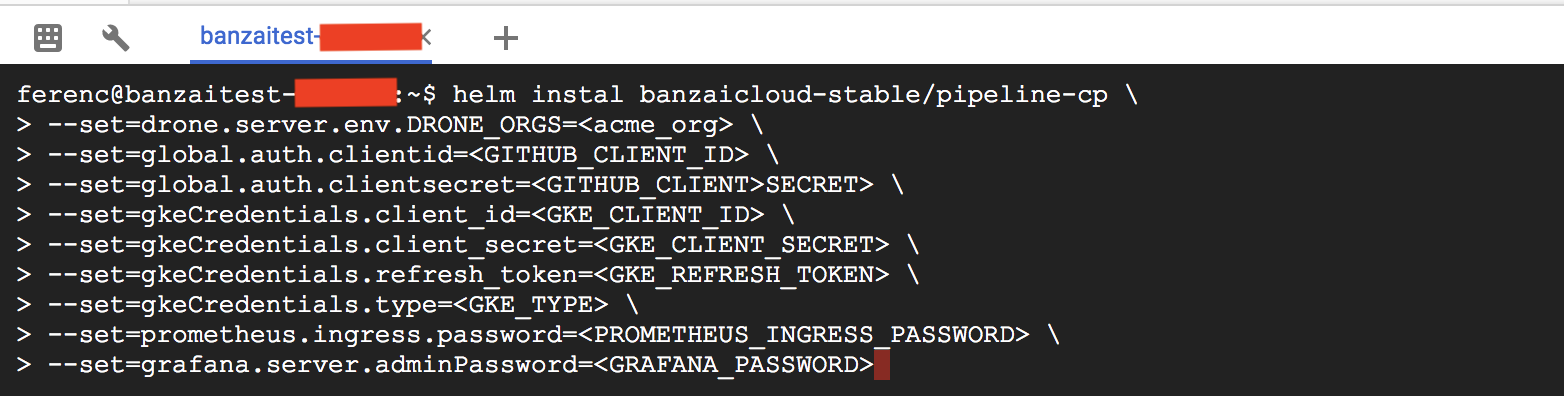
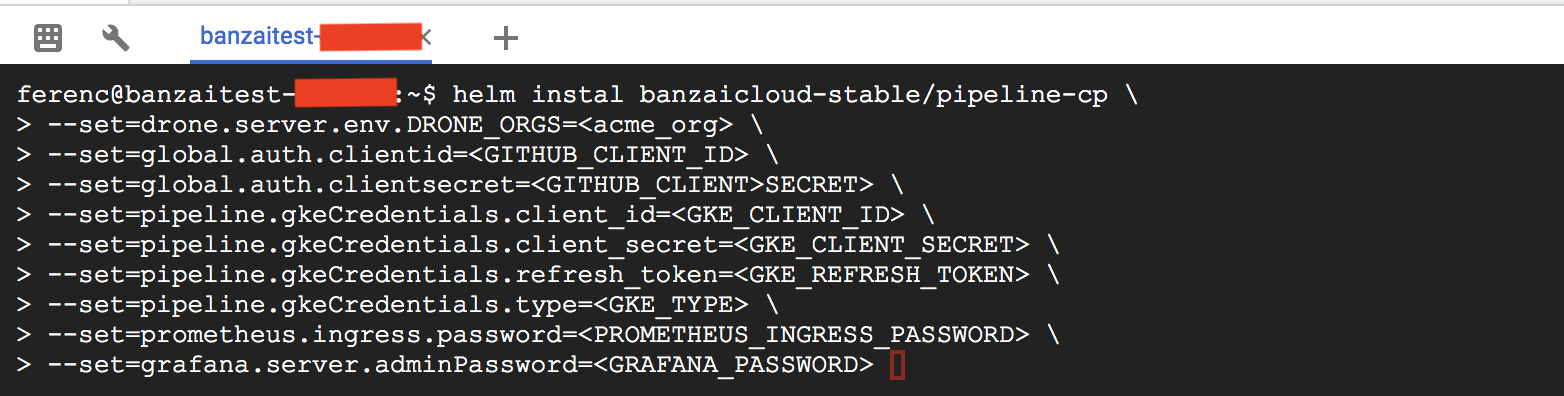
Fix helm install command add pipeline prefix

diff --git a/docs/control-plane-on-gcloud.md b/docs/control-plane-on-gcloud.md
@@ -128,10 +128,10 @@ helm install banzaicloud-stable/pipeline-cp \
 --set=drone.server.env.DRONE_ORGS=<acme_org> \
 --set=global.auth.clientid=<GITHUB_CLIENT_ID> \
 --set=global.auth.clientsecret=<GITHUB_CLIENT>SECRET> \
---set=gkeCredentials.client_id=<GKE_CLIENT_ID> \
---set=gkeCredentials.client_secret=<GKE_CLIENT_SECRET> \
---set=gkeCredentials.refresh_token=<GKE_REFRESH_TOKEN> \
---set=gkeCredentials.type=<GKE_TYPE> \
+--set=pipeline.gkeCredentials.client_id=<GKE_CLIENT_ID> \
+--set=pipeline.gkeCredentials.client_secret=<GKE_CLIENT_SECRET> \
+--set=pipeline.gkeCredentials.refresh_token=<GKE_REFRESH_TOKEN> \
+--set=pipeline.gkeCredentials.type=<GKE_TYPE> \
 --set=prometheus.ingress.password=<PROMETHEUS_INGRESS_PASSWORD> \
 --set=grafana.server.adminPassword=<GRAFANA_PASSWORD> 
 ```
